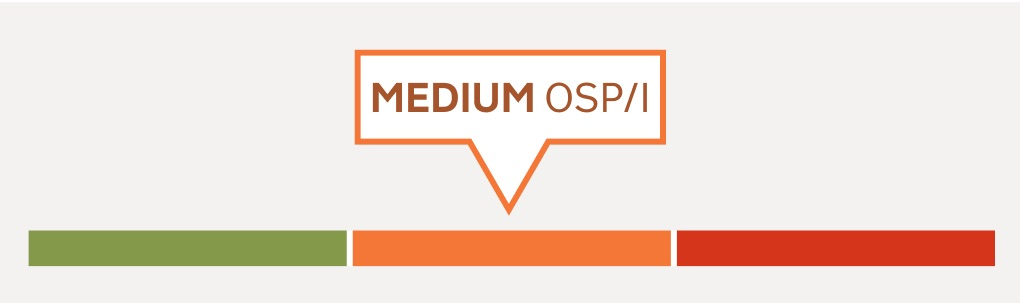
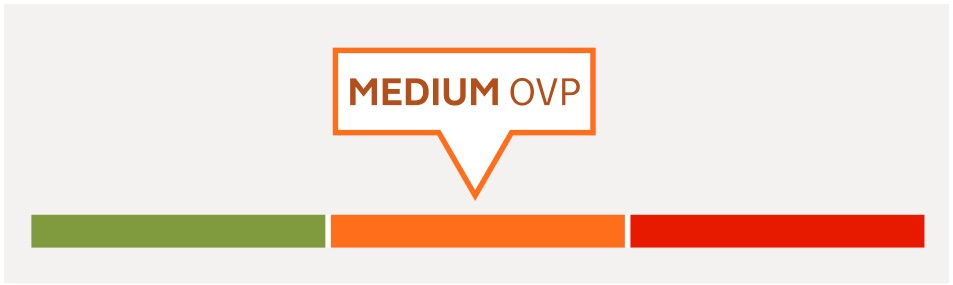
Added new risk graphics

Changed region(s): [[0.0, 0.7298, 0.9738, 0.8982], [0.3347, 0.1404, 0.6695, 0.7018]]

diff --git a/app/views/case/risk.html b/app/views/case/risk.html
@@ -14,7 +14,7 @@
 {% include "case/_case-service-user-banner.html" %}
 {% set currentNavSection = 'risk' %}
 {% include "case/_case-nav.html" %}
-
+<h2 class="govuk-heading-m">Contact Log</h2>
 {% from "govuk/components/table/macro.njk" import govukTable %}
 <div class="govuk-width-container">
 <div class="govuk-grid-row">

diff --git a/app/views/case/index.html b/app/views/case/index.html
@@ -49,7 +49,7 @@
 }) }}
     </div>
     <div class="govuk-grid-column-one-third">
-    <img src="../../public/images/MAPPA-score.jpg" width="100%" />
+    <img src="../../public/images/risk-flags.png" width="100%" />
     </div>
     </div>
 </div>
